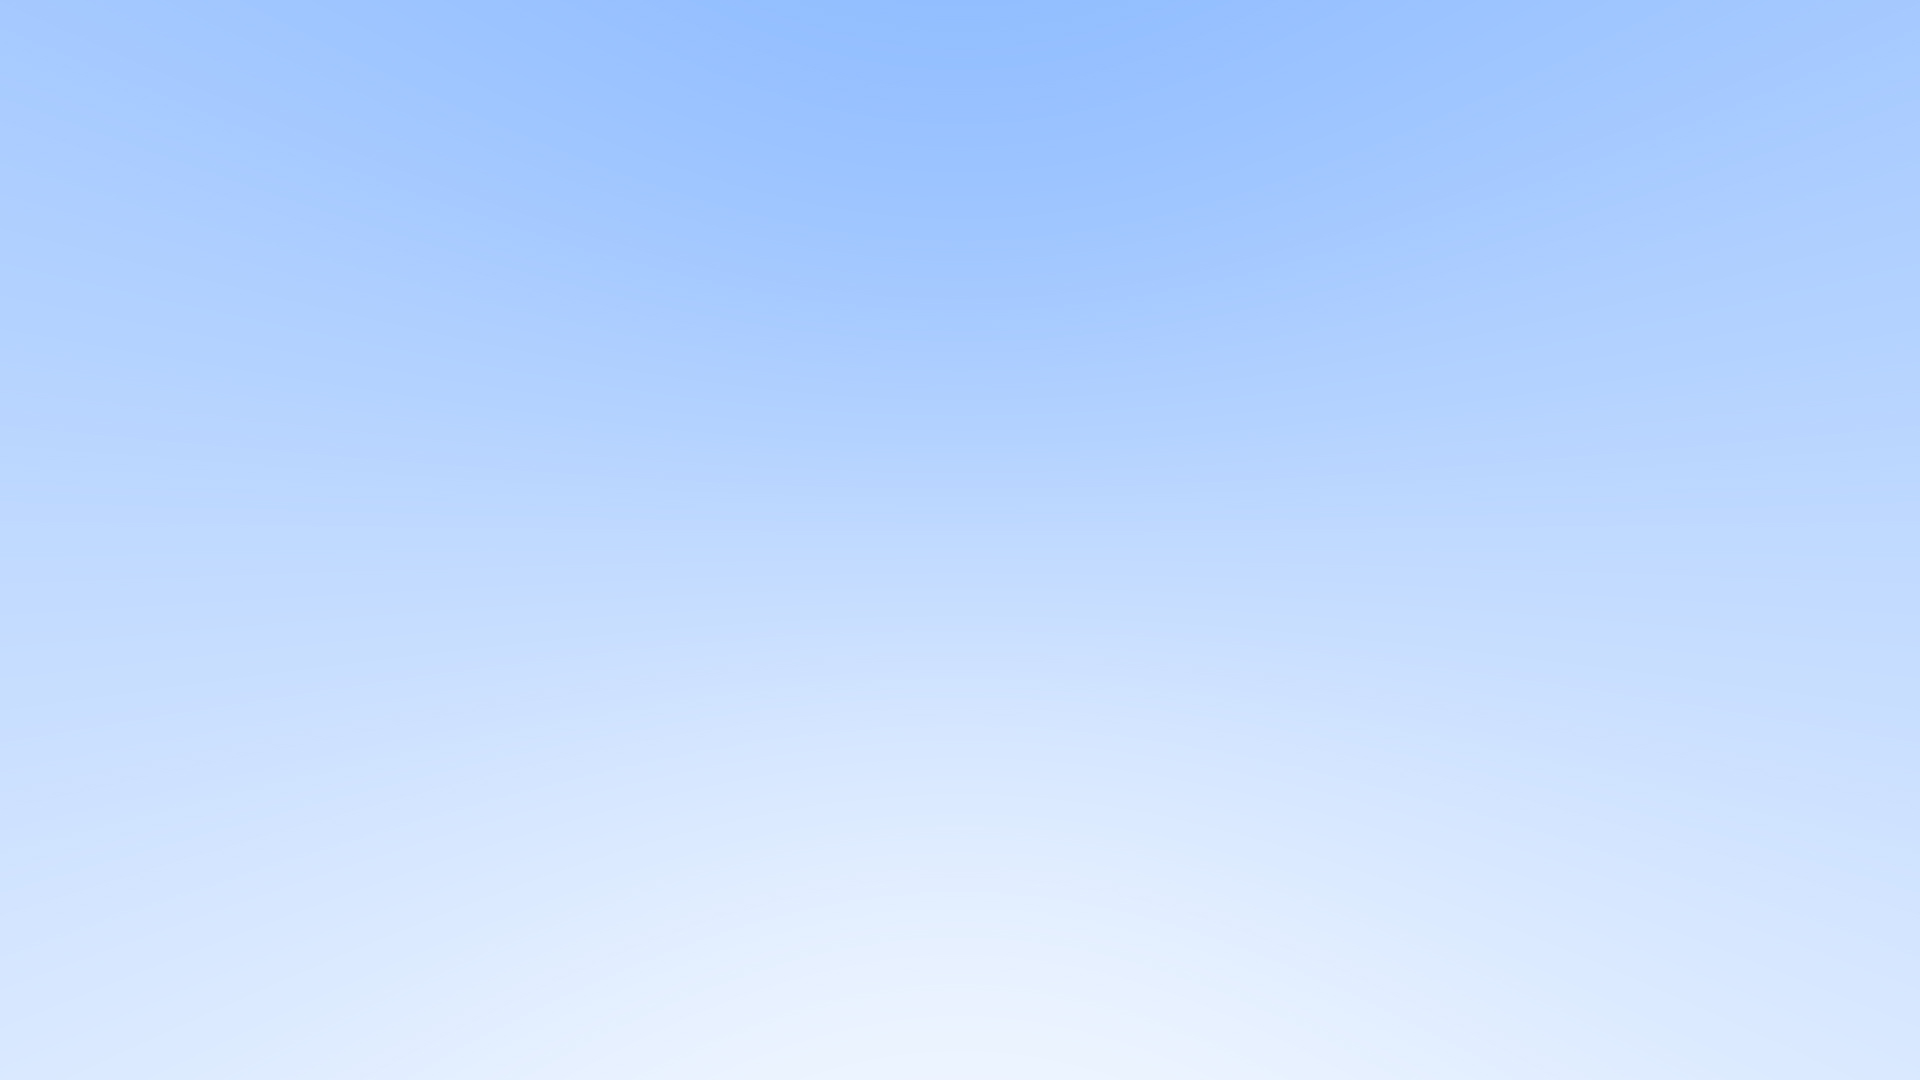
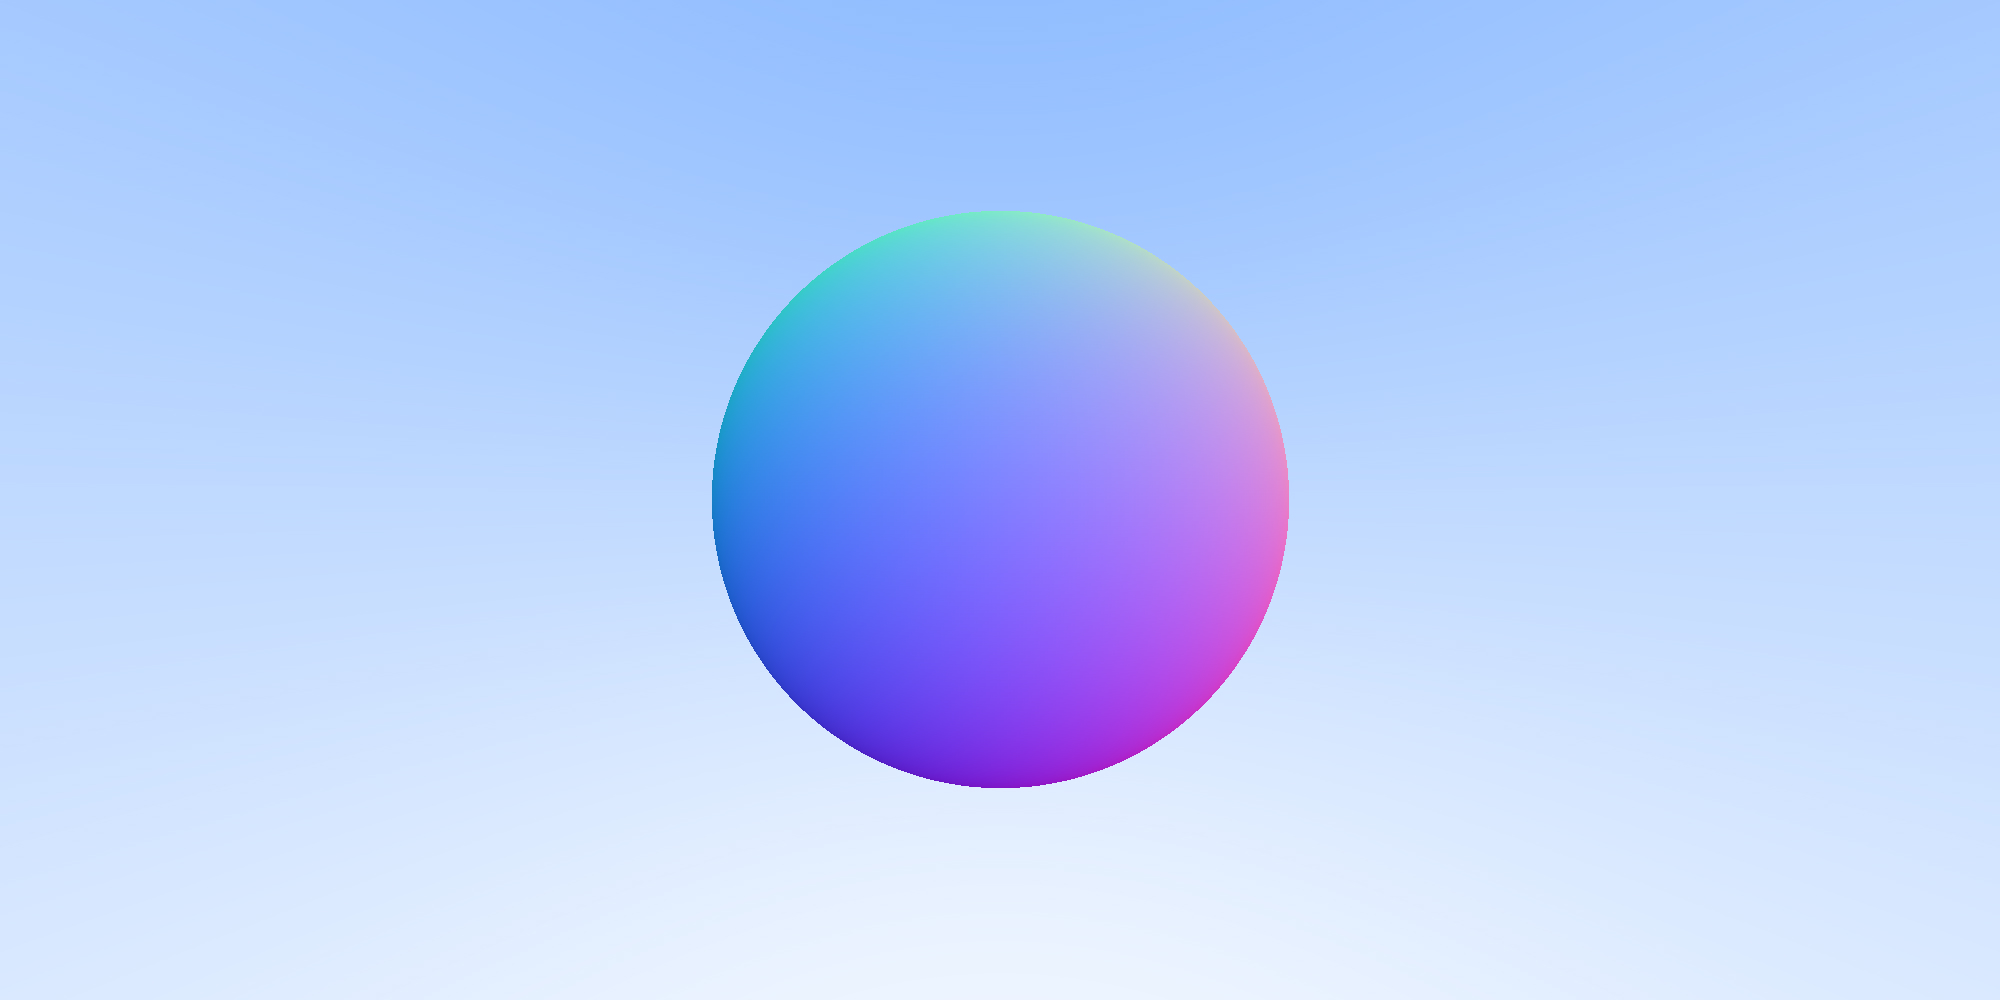
make sphere

Changed region(s): [[0.3438, 0.186, 0.6562, 0.806]]

diff --git a/ToyRayTracing/main.cpp b/ToyRayTracing/main.cpp
@@ -4,19 +4,40 @@
 #include<stb_image_write.h>
 
 #include "ray.h"
-
+float hit_sphere(const vec3& center, const float radius, const ray& r)
+{
+	vec3 oc = r.origin() - center;
+	float a = dot(r.direction(), r.direction());
+	float b = 2.0*dot(oc, r.direction());
+	float c = dot(oc, oc) - radius * radius;
+	float discriminant = b * b - 4 * a*c;
+	if (discriminant < 0)
+	{
+		return -1.0;
+	}
+	else
+	{
+		return (-b - sqrt(discriminant)) / (2.0*a);
+	}
+}
 vec3 color(const ray& r)
 {
+	float t = hit_sphere(vec3(0, 0, -1), 0.5, r);
+	if (t > 0.0)
+	{
+		vec3 N = unit_vector(r.point_at_parameter(t) - vec3(0, 0, -1));
+		return 0.5*vec3(N.x() + 1, N.y() + 1, N.z() + 1);
+	}
 	vec3 unit_direction = unit_vector(r.direction());
-	float t = 0.5*(unit_direction.y() + 1.0);
+	t = 0.5*(unit_direction.y() + 1.0);
 	return (1.0 - t)*vec3(1.0, 1.0, 1.0) + t * vec3(0.5, 0.7, 1.0);
 }
 
 int main()
 {
 	std::vector<unsigned char> image;
-	int nx = 1920;
-	int ny = 1080;
+	int nx = 2000;
+	int ny = 1000;
 	vec3 lower_left_corner(-2.0, -1.0, -1.0);
 	vec3 horizontal(4.0, 0.0, 0.0);
 	vec3 vertical(0.0, 2.0, 0.0);
